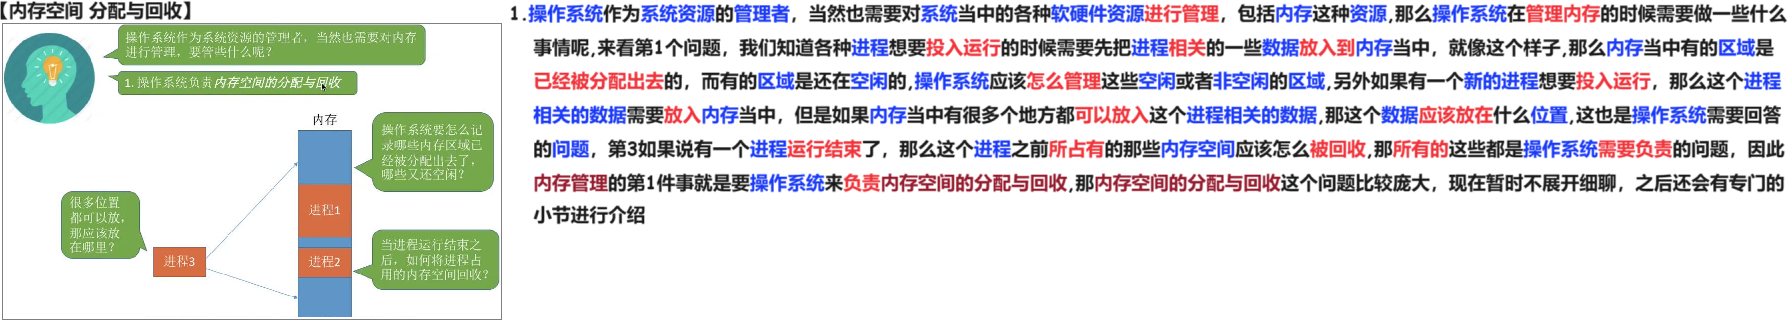
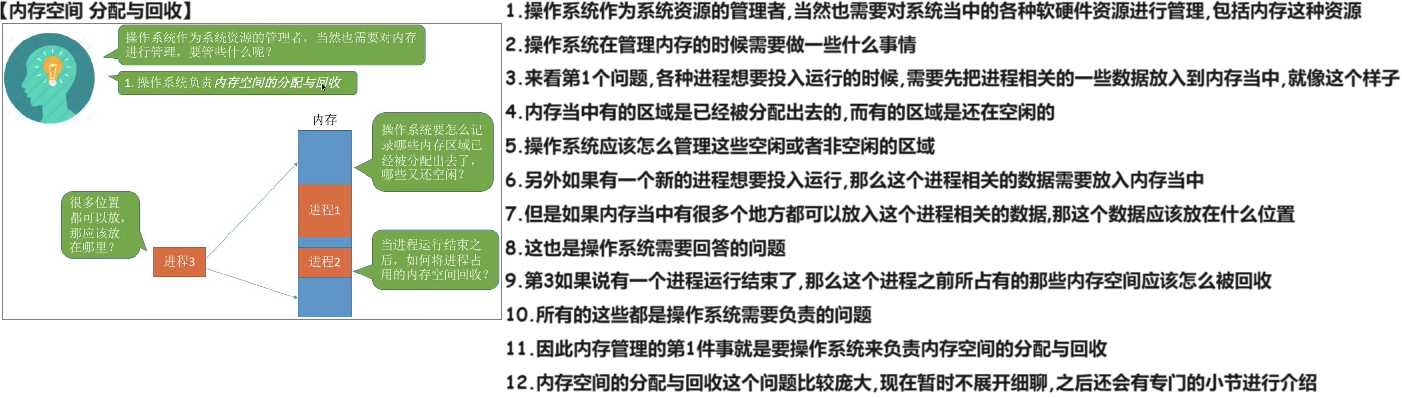
240620

diff --git a/01 初试/01 OS/02 24 25 王道/01 基础/03 内存管理/01 内存管理 概念/02 内存管理 概念 240620/02 消化/02 Doc.md b/01 初试/01 OS/02 24 25 王道/01 基础/03 内存管理/01 内存管理 概念/02 内存管理 概念 240620/02 消化/02 Doc.md
@@ -10,7 +10,7 @@
 
 # 02 内存空间 分配与回收
 
-<img src="https://cvp.oss-cn-shanghai.aliyuncs.com/picgo/202405130901296.png" alt="image-20240513090109180" style="zoom:50%;" />
+<img src="https://cvp.oss-cn-shanghai.aliyuncs.com/picgo/202406201752915.png" alt="image-20240620175226583" style="zoom:50%;" />
 
 
 
